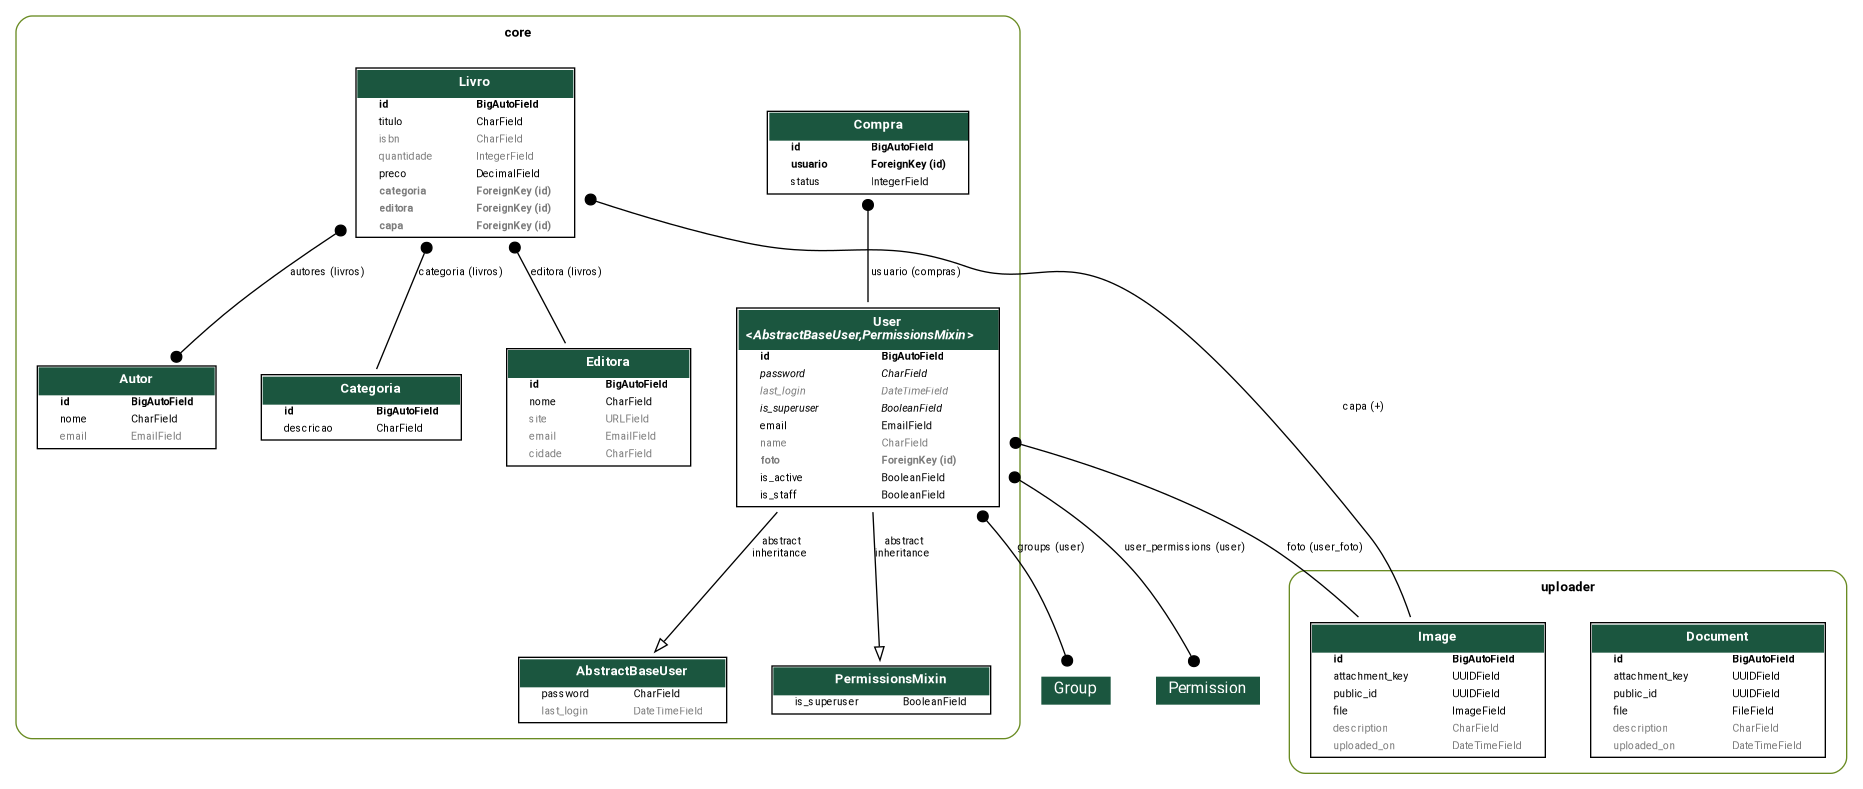
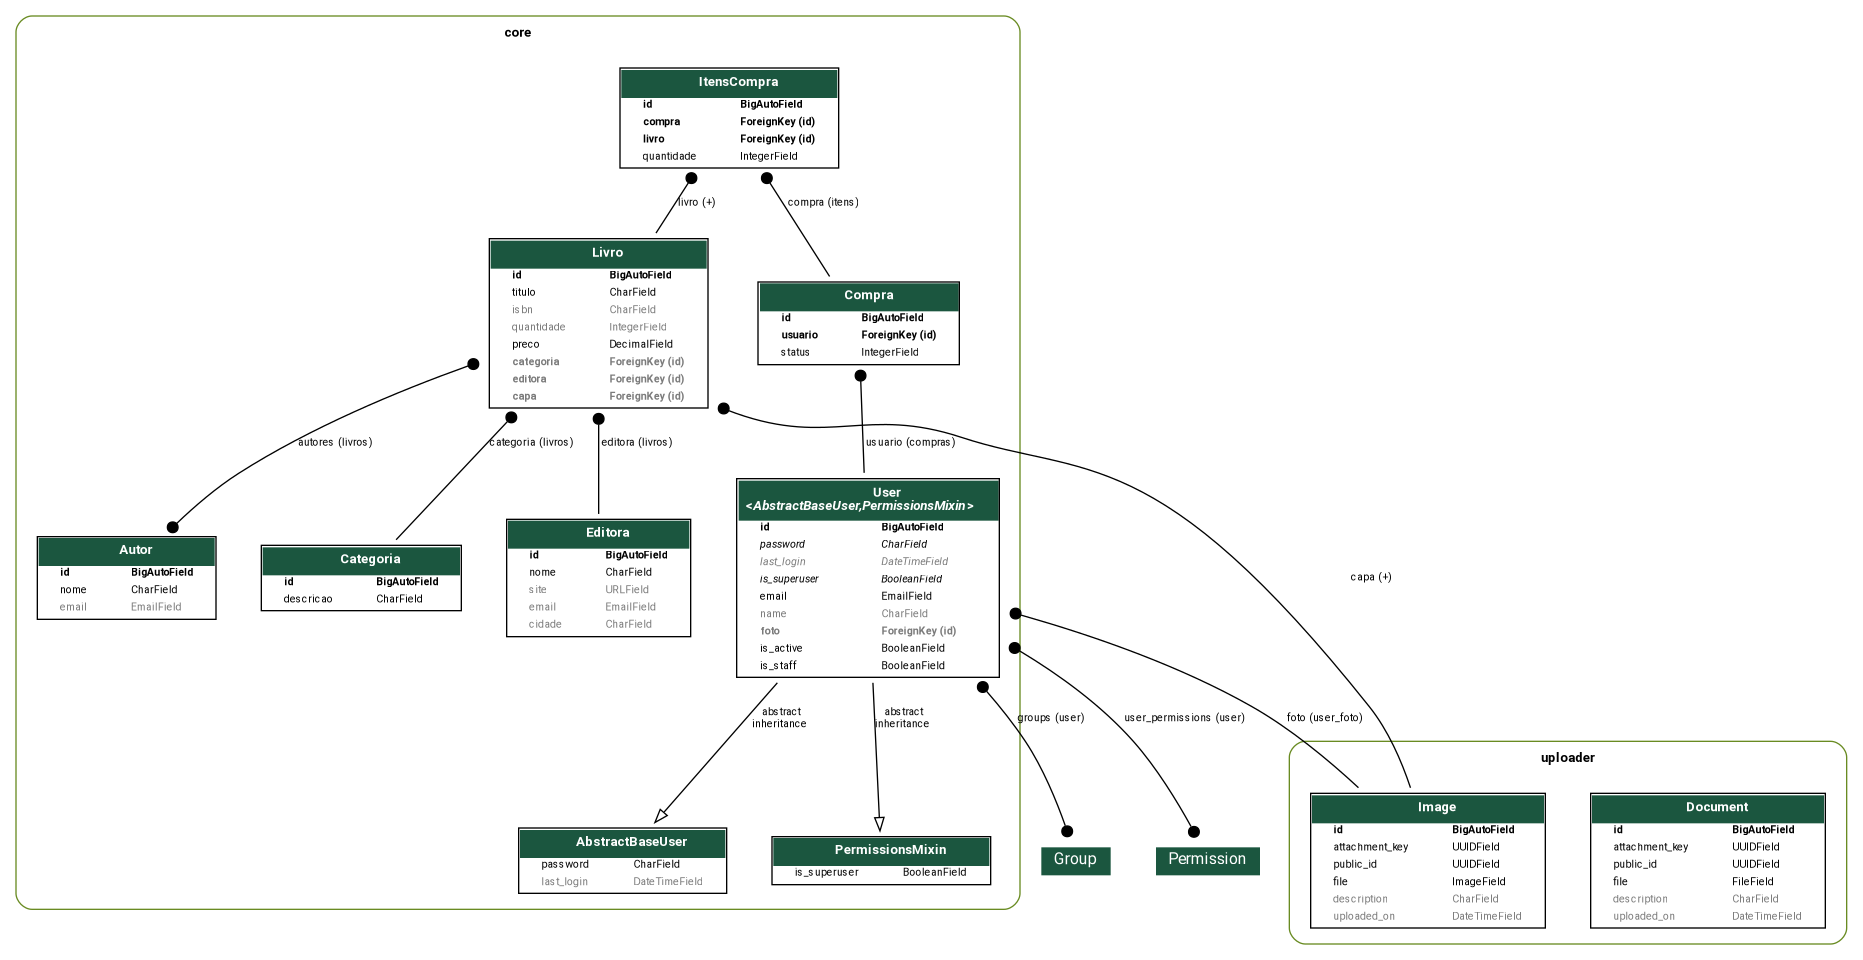
feat: create ItensCompra entity

diff --git a/core/admin.py b/core/admin.py
@@ -5,7 +5,8 @@ from django.contrib.admin import ModelAdmin, register
 from django.contrib.auth.admin import UserAdmin as BaseUserAdmin
 from django.utils.translation import gettext_lazy as _
 
-from core.models import Autor, Categoria, Compra, Editora, Livro, User
+from core.models import Autor, Categoria, Compra, Editora, ItensCompra, Livro, User
+from dill.tests.test_recursive import Model
 
 @register(Autor)
 class AutorAdmin(ModelAdmin):
@@ -35,6 +36,12 @@ class EditoraAdmin(ModelAdmin):
     search_fields = ('nome', 'email', 'cidade')
     list_filter = ('nome', 'email', 'cidade')
     ordering = ('nome', 'email', 'cidade')
+    list_per_page = 10
+
+@register(ItensCompra)
+class ItensCompraAdmin(ModelAdmin):
+    list_display = ('compra', 'livro', 'quantidade')
+    ordering = ('compra', 'livro', 'quantidade')
     list_per_page = 10
 
 @register(Livro)

diff --git a/core/migrations/0015_itenscompra.py b/core/migrations/0015_itenscompra.py
@@ -1,0 +1,23 @@
+# Generated by Django 5.2.12 on 2026-06-23 12:08
+
+import django.db.models.deletion
+from django.db import migrations, models
+
+
+class Migration(migrations.Migration):
+
+    dependencies = [
+        ('core', '0014_compra'),
+    ]
+
+    operations = [
+        migrations.CreateModel(
+            name='ItensCompra',
+            fields=[
+                ('id', models.BigAutoField(auto_created=True, primary_key=True, serialize=False, verbose_name='ID')),
+                ('quantidade', models.IntegerField(default=1)),
+                ('compra', models.ForeignKey(on_delete=django.db.models.deletion.CASCADE, related_name='itens', to='core.compra')),
+                ('livro', models.ForeignKey(on_delete=django.db.models.deletion.PROTECT, related_name='+', to='core.livro')),
+            ],
+        ),
+    ]

diff --git a/core/models/compra.py b/core/models/compra.py
@@ -2,6 +2,8 @@ from django.db import models
 
 from .user import User
 
+from .livro import Livro
+
 class Compra(models.Model):
     class StatusCompra(models.IntegerChoices):
         CARRINHO = 1, 'Carrinho'
@@ -11,3 +13,8 @@ class Compra(models.Model):
 
     usuario = models.ForeignKey(User, on_delete=models.PROTECT, related_name='compras')
     status = models.IntegerField(choices=StatusCompra.choices, default=StatusCompra.CARRINHO)
+
+class ItensCompra(models.Model):
+    compra = models.ForeignKey(Compra, on_delete=models.CASCADE, related_name='itens')
+    livro = models.ForeignKey(Livro, on_delete=models.PROTECT, related_name='+')
+    quantidade = models.IntegerField(default=1)

diff --git a/core/models/__init__.py b/core/models/__init__.py
@@ -1,6 +1,6 @@
 from .autor import Autor
 from .categoria import Categoria
-from .compra import Compra
 from .editora import Editora
 from .livro import Livro
 from .user import User
+from .compra import Compra, ItensCompra
